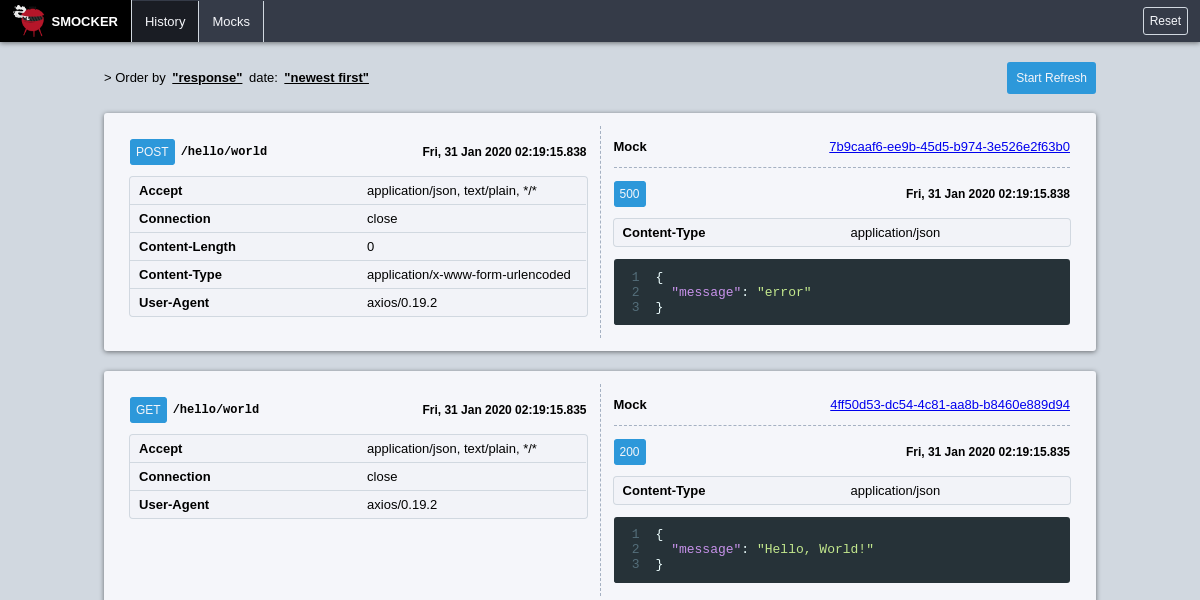
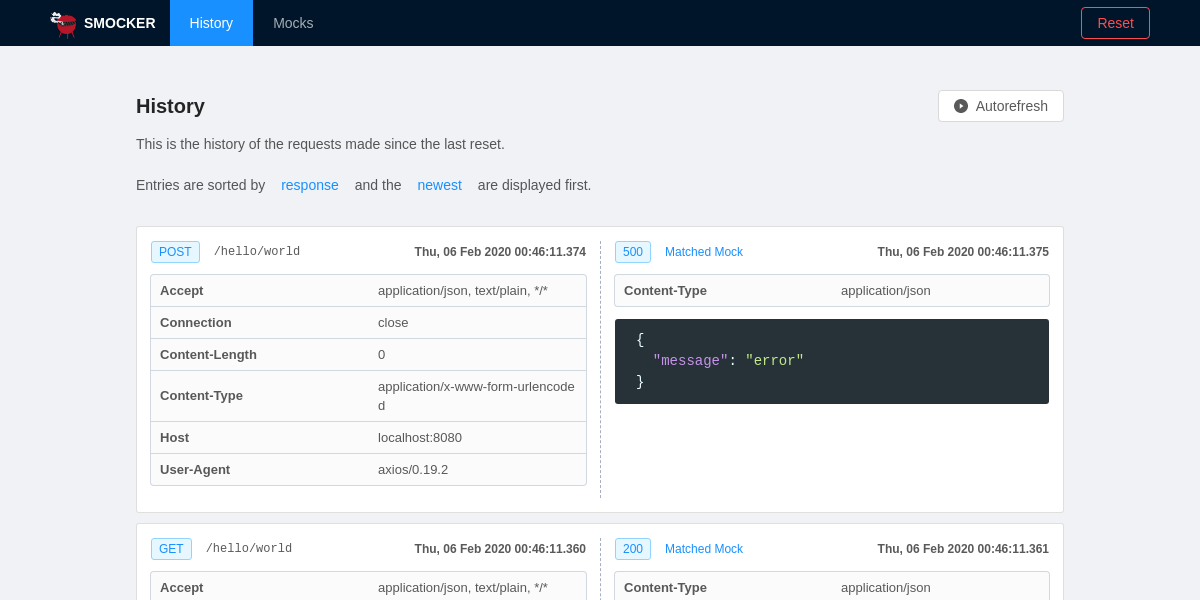
feat: regenerate screenshots after antd migration

diff --git a/docs/refresh-screenshots.js b/docs/refresh-screenshots.js
@@ -54,17 +54,22 @@ async function main() {
   const page = await browser.newPage();
   page.setViewport({ width: 1200, height: 600 });
 
-  // Screenshot empty history
+  // Screenshot empty + add
   await axios.post(smockerAdminHost + "/reset");
   await page.goto(smockerAdminHost + "/pages/history");
   await screenshotPage(page, "screenshot-empty-history.png");
+  await page.goto(smockerAdminHost + "/pages/mocks");
+  await screenshotPage(page, "screenshot-empty-mocks.png");
+  await page.click("button.add-mocks-button");
+  await page.waitFor(300);
+  await page.screenshot({ path: screenshotsDir + "screenshot-add-mocks.png" });
 
   // Screenshot mocks
   await axios.post(smockerAdminHost + "/mocks", mocks, {
     headers: { "Content-Type": "application/x-yaml" }
   });
-  await page.goto(smockerAdminHost + "/pages/mocks");
-  await page.waitForSelector('.list', {visible: true});
+  await page.reload({ waitUntil: ["networkidle0", "domcontentloaded"] });
+  await page.waitForSelector(".mocks", { visible: true });
   await page.screenshot({ path: screenshotsDir + "screenshot-mocks.png" });
 
   // Screenshot history
@@ -73,24 +78,26 @@ async function main() {
     await axios.post(smockerServerHost + "/hello/world"); //ignore legit error
   } catch {}
   await page.goto(smockerAdminHost + "/pages/history");
-  await page.waitForSelector('.list', {visible: true});
+  await page.waitForSelector(".history", { visible: true });
   await screenshotPage(page, "screenshot-history.png");
 
   // Screenshot history cards
+  await page.waitFor(300);
   await screenshotElement({
     page,
     name: "screenshot-hello-world-200.png",
-    selector: ".entry:nth-child(3)"
+    selector: ".entry:nth-child(4)"
   });
   try {
     await axios.delete(smockerServerHost + "/hello/world"); //ignore legit error
   } catch {}
   await page.reload({ waitUntil: ["networkidle0", "domcontentloaded"] });
-  await page.waitForSelector('.list', {visible: true});
+  await page.setViewport({ width: 1200, height: 1024 });
+  await page.waitForSelector(".history", { visible: true });
   await screenshotElement({
     page,
     name: "screenshot-hello-world-666.png",
-    selector: ".entry:nth-child(2)"
+    selector: ".entry:nth-child(4)"
   });
 
   await browser.close();

diff --git a/client/src/components/Mocks.tsx b/client/src/components/Mocks.tsx
@@ -383,6 +383,7 @@ const Mocks = ({ match, loading, mocks, error, fetch, addMocks }: Props) => {
                 icon="plus"
                 disabled={displayNewMock}
                 onClick={handleAddNewMock}
+                className="add-mocks-button"
               >
                 Add Mocks
               </Button>

diff --git a/docs/guide/getting-started.md b/docs/guide/getting-started.md
@@ -44,6 +44,10 @@ Smocker reserves the non HTTP status codes from `600` to `699`. This is because 
 
 To register our first mock, we will use the user interface. Switch to the "Mocks" page and click on the "Add Mock" button.
 
+![Smocker's user interface - Empty mocks page](/screenshots/screenshot-empty-mocks.png)
+
+![Smocker's user interface - Add mocks](/screenshots/screenshot-add-mocks.png)
+
 Mocks are defined using the YAML format. Register the following mock:
 
 ```yml
